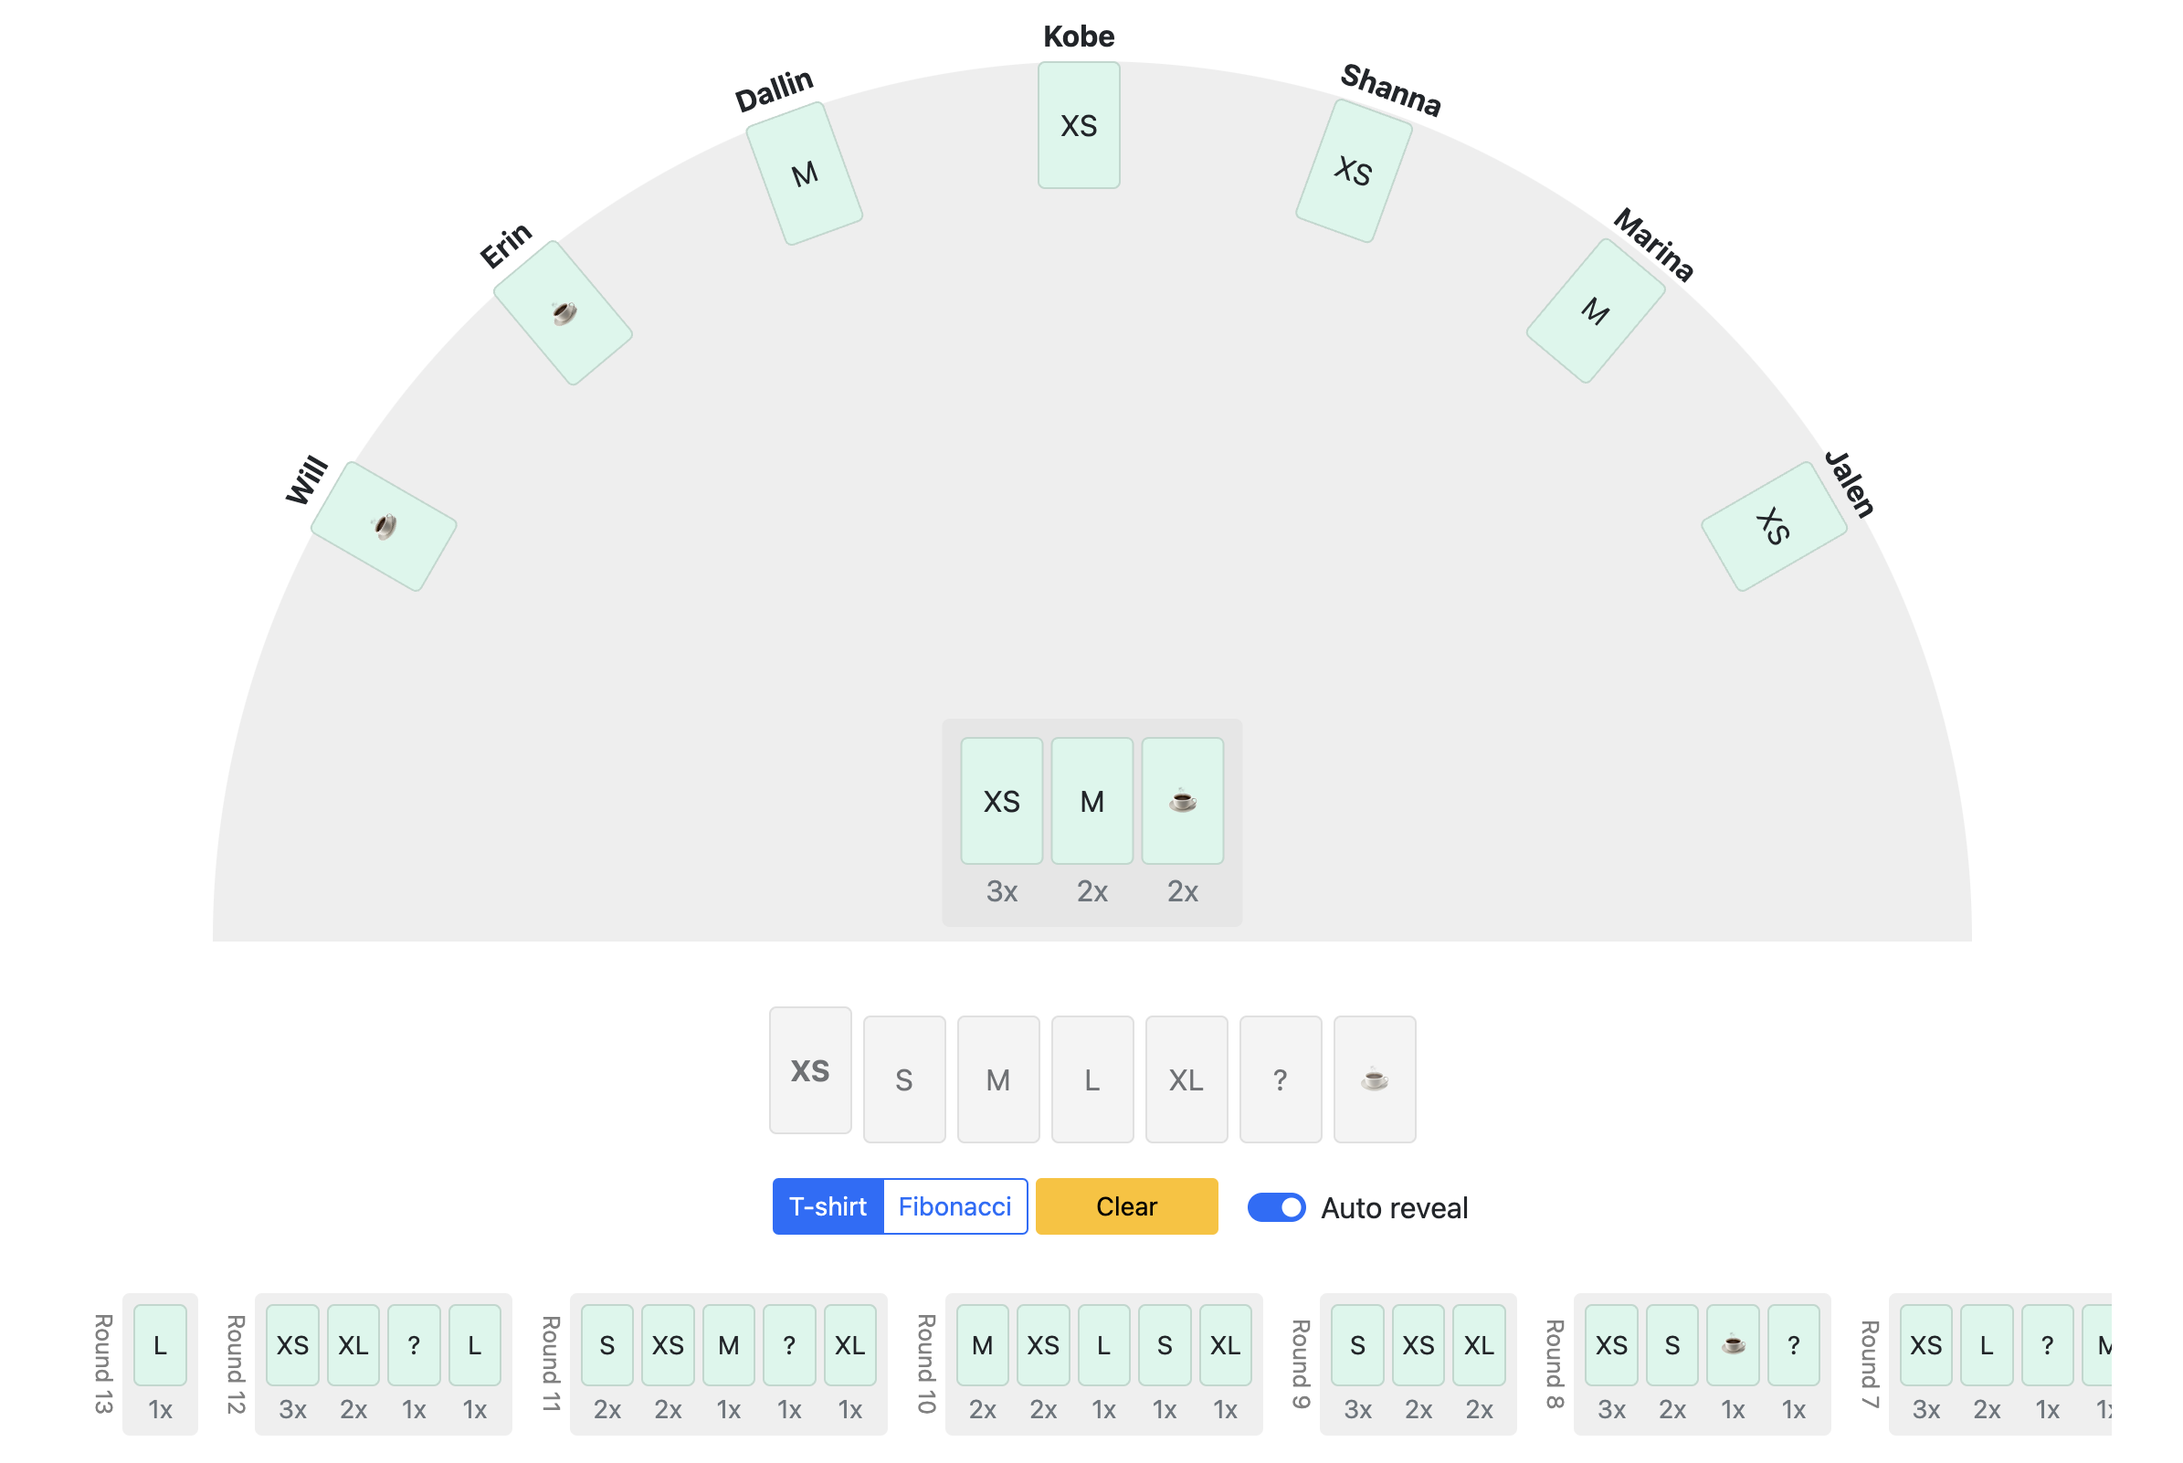
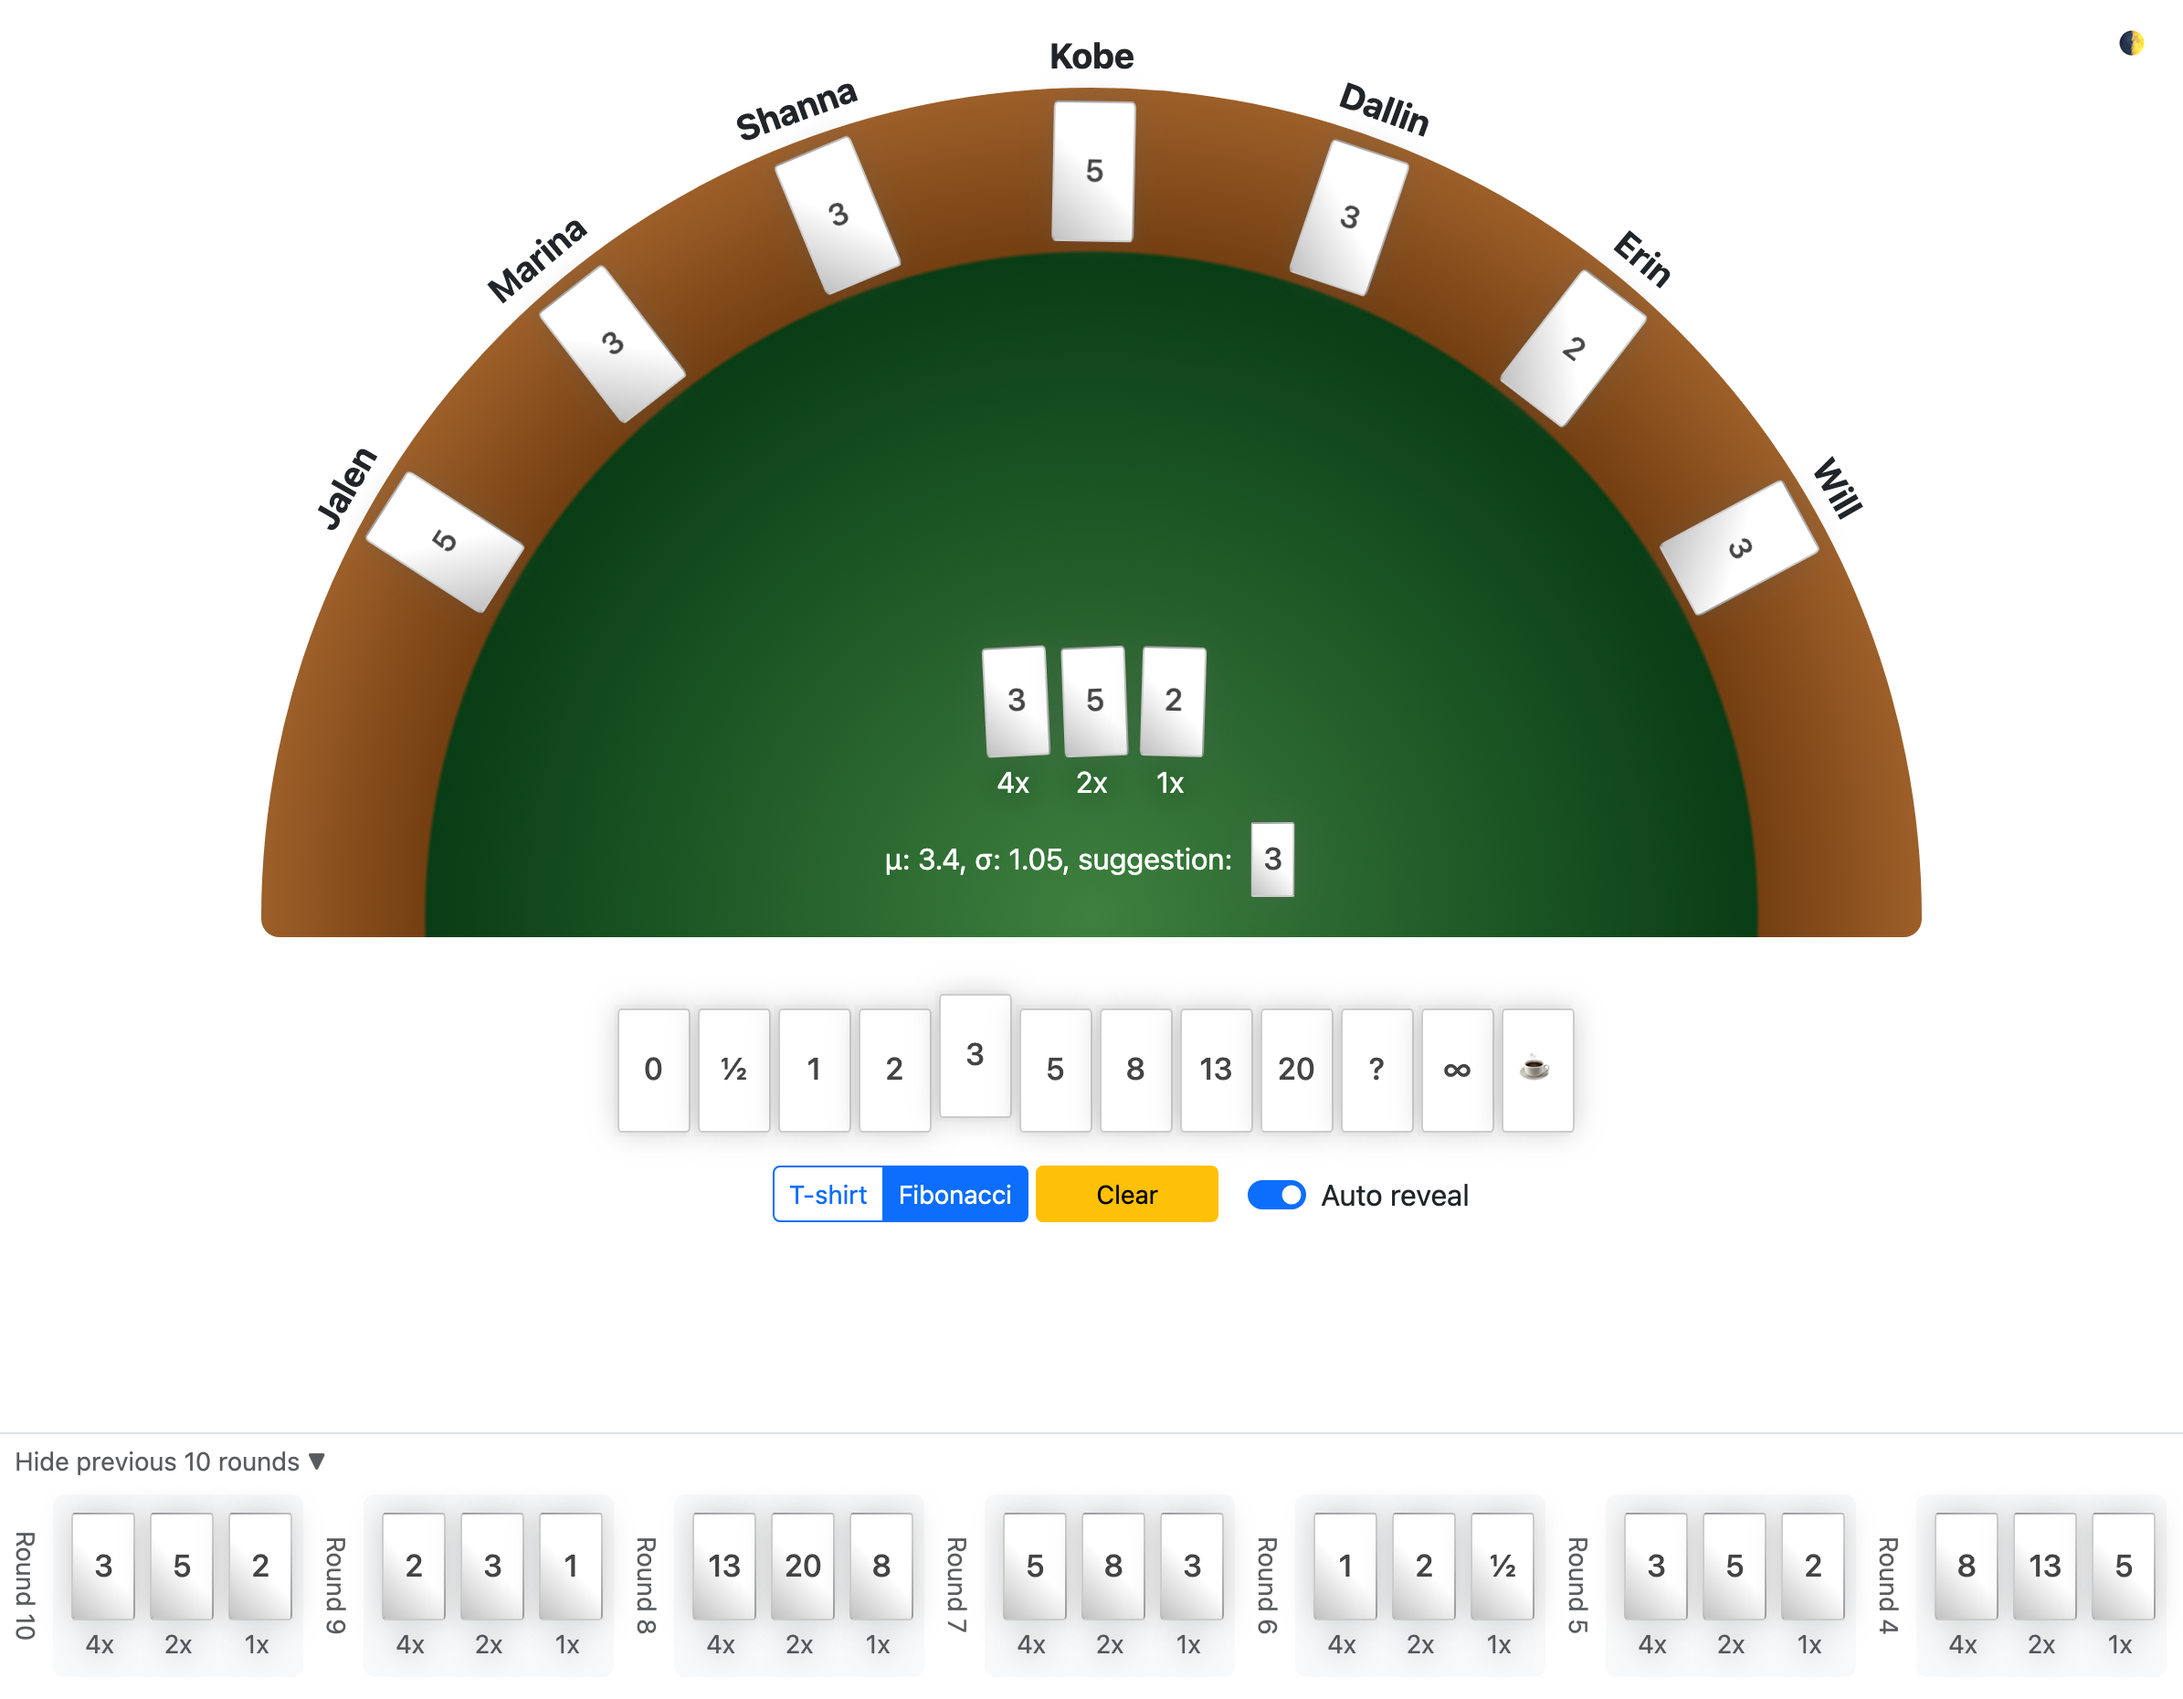
Center the table, cards and names on the same point
The table's corner radii added up to more than its height, so the browser shrank them and the arc wasn't a true circle. The felt gradient used its default size, so the felt edge wasn't tied to the radius. Participants were turned around their own box, shifted by magic offsets, so cards drifted inward toward the sides of the table.

Now the table is a half circle of radius R with a rim from 0.8R to R. Each card's center sits at 0.9R, and its name sits just outside the table, both measured from the same center point.

Also update the screenshot in the README.

diff --git a/js/Participant.svelte b/js/Participant.svelte
@@ -26,7 +26,9 @@ let angle: number = $derived.by(() => {
 });
 </script>
 
-<div class="participant" style="transform: translate(1.3vw) rotate({angle}deg) translate({radius}px) rotate(90deg)">
+<div
+    class="participant"
+    style="transform: translate(-50%, -50%) rotate({angle}deg) translate({radius}px) rotate(90deg)">
     <strong class="name">{user.name}</strong>
     {#if user.is_spectator}
         <Card {rotation}>👁</Card>
@@ -49,18 +51,21 @@ let angle: number = $derived.by(() => {
     position: absolute;
     text-align: center;
 
-    top: 95%;
+    /* Start at the center of the table, the transform moves the center of the card onto the circle */
+    top: var(--radius);
     left: 50%;
-    margin: -40px;
     width: 5%;
 }
 
 .participant .name {
-    display: block;
+    position: absolute;
+    bottom: 100%;
+    margin-bottom: 0.4em;
+    left: 50%;
+    transform: translateX(-50%);
     font-size: 1.2em;
     text-wrap: nowrap;
     width: 7em;
-    margin-left: -2.2em;
     overflow-x: hidden;
     text-overflow: ellipsis;
 }

diff --git a/js/Voting.svelte b/js/Voting.svelte
@@ -46,7 +46,7 @@ $effect.pre(() => {
             {user}
             {i}
             count={room.participants.length}
-            radius={radius * 0.94}
+            radius={radius * 0.9}
             rotation={random()} />
     {/each}
     {#if room.isRevealed}
@@ -106,10 +106,17 @@ $effect.pre(() => {
 
 <style>
 .participants {
-    width: calc(var(--radius) * 1.98);
-    height: var(--radius);
+    /* A half circle centered at (50%, var(--radius)), with a little extra height for the rounded bottom corners */
+    width: calc(var(--radius) * 2);
+    height: calc(var(--radius) + 10px);
     border-radius: var(--radius) var(--radius) 10px 10px;
-    background: radial-gradient(circle at bottom, #3e803f 0%, #093d15 58%, #743f11 58.5%, #f0a25c);
+    background: radial-gradient(
+        circle var(--radius) at 50% var(--radius),
+        #3e803f 0%,
+        #093d15 80%,
+        #743f11 80.5%,
+        #f0a25c 140%
+    );
     position: relative;
     margin: 4vh auto;
 }
